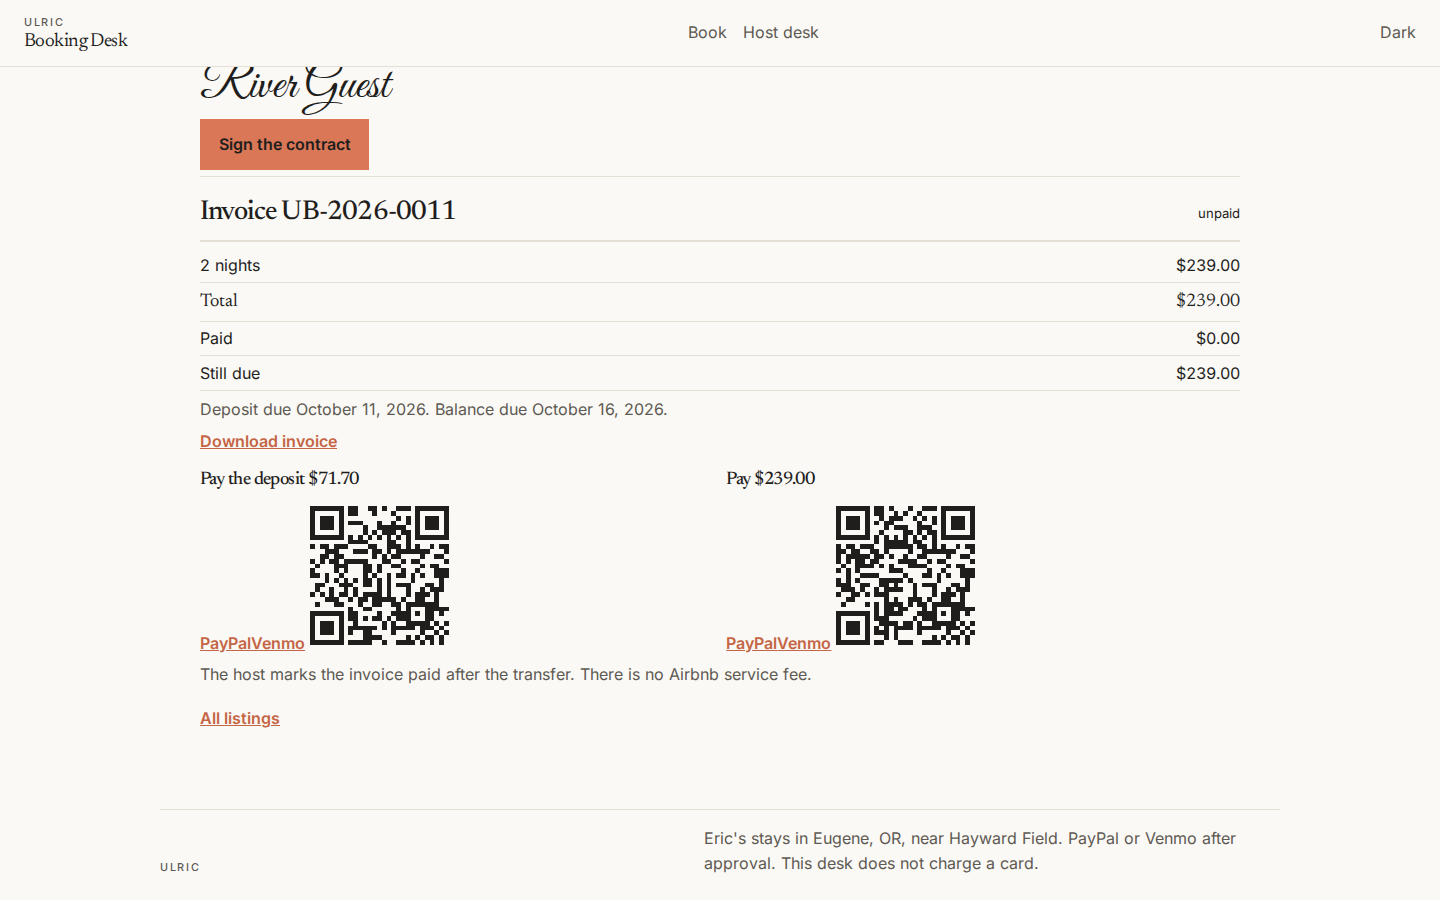
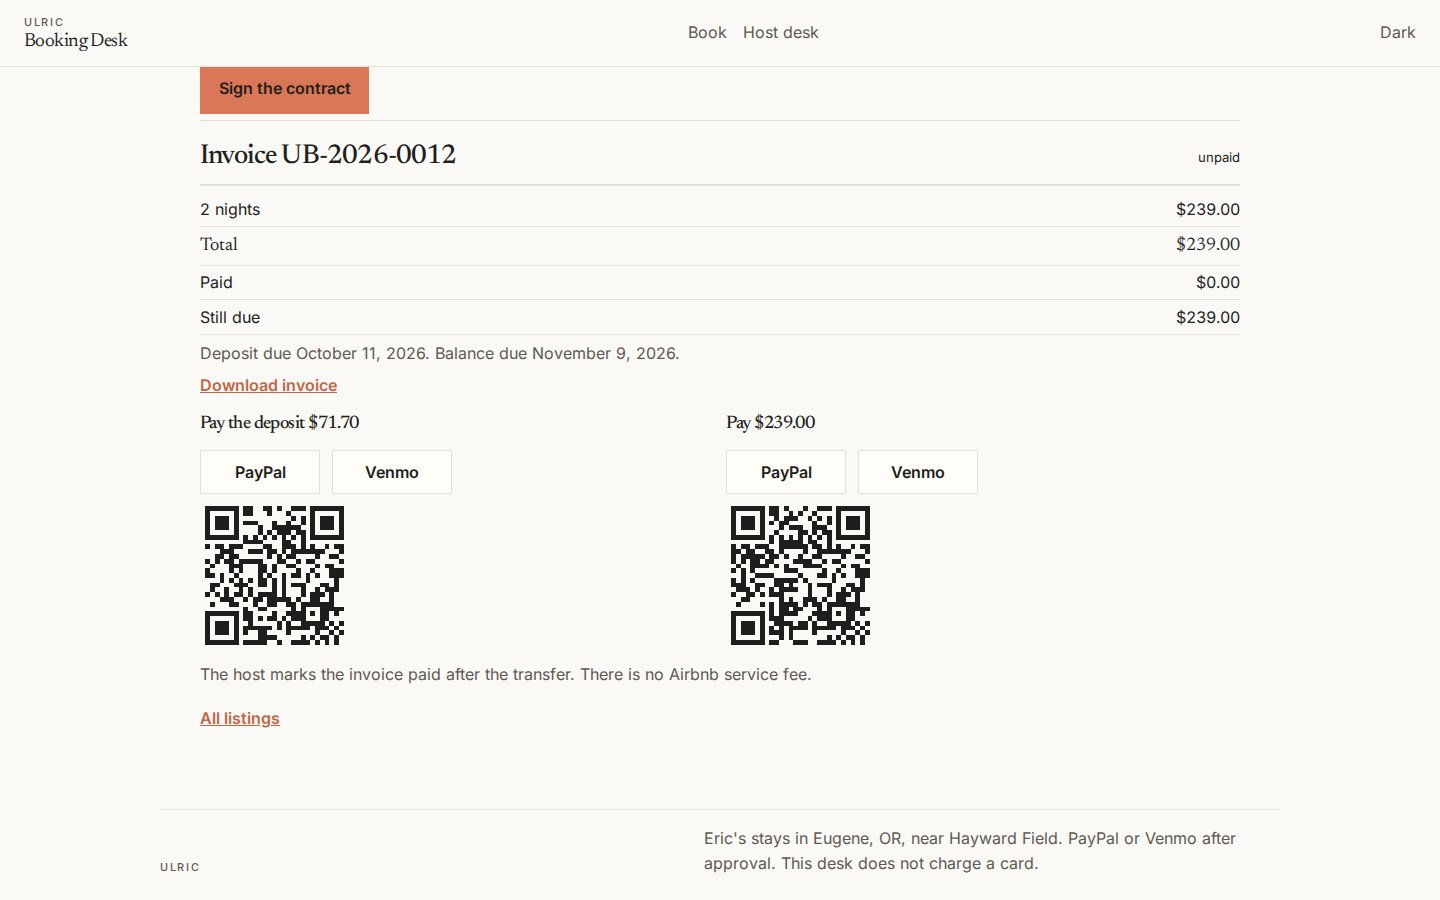
Space guest pay buttons and drop orphaned contract files.
PayPal and Venmo sit apart as two buttons, and the request confirmation no longer leaves a space before the period. A startup with sample bookings off deletes contract PDFs that no booking still references.

diff --git a/web/src/app/pages/guest.html b/web/src/app/pages/guest.html
@@ -139,12 +139,14 @@
             @if (invoice.payPalDepositUrl || invoice.venmoDepositUrl) {
               <article>
                 <h3>Pay the deposit {{ money(invoice.depositRemaining) }}</h3>
-                @if (invoice.payPalDepositUrl) {
-                  <a class="text-link" [href]="invoice.payPalDepositUrl" target="_blank" rel="noreferrer">PayPal</a>
-                }
-                @if (invoice.venmoDepositUrl) {
-                  <a class="text-link" [href]="invoice.venmoDepositUrl" target="_blank" rel="noreferrer">Venmo</a>
-                }
+                <div class="pay-links">
+                  @if (invoice.payPalDepositUrl) {
+                    <a class="pay-button" [href]="invoice.payPalDepositUrl" target="_blank" rel="noreferrer">PayPal</a>
+                  }
+                  @if (invoice.venmoDepositUrl) {
+                    <a class="pay-button" [href]="invoice.venmoDepositUrl" target="_blank" rel="noreferrer">Venmo</a>
+                  }
+                </div>
                 @if (invoice.payPalDepositUrl) {
                   <app-qr [value]="invoice.payPalDepositUrl" label="PayPal deposit QR code" />
                 }
@@ -152,12 +154,14 @@
             }
             <article>
               <h3>Pay {{ money(invoice.amountDue) }}</h3>
-              @if (invoice.payPalUrl) {
-                <a class="text-link" [href]="invoice.payPalUrl" target="_blank" rel="noreferrer">PayPal</a>
-              }
-              @if (invoice.venmoUrl) {
-                <a class="text-link" [href]="invoice.venmoUrl" target="_blank" rel="noreferrer">Venmo</a>
-              }
+              <div class="pay-links">
+                @if (invoice.payPalUrl) {
+                  <a class="pay-button" [href]="invoice.payPalUrl" target="_blank" rel="noreferrer">PayPal</a>
+                }
+                @if (invoice.venmoUrl) {
+                  <a class="pay-button" [href]="invoice.venmoUrl" target="_blank" rel="noreferrer">Venmo</a>
+                }
+              </div>
               @if (invoice.payPalUrl) {
                 <app-qr [value]="invoice.payPalUrl" label="PayPal QR code" />
               }

diff --git a/web/src/styles.css b/web/src/styles.css
@@ -356,6 +356,21 @@ textarea { resize: vertical; }
 .pad { height: 160px; }
 .signature-preview { height: auto; background: #fff; }
 .pay-grid { display: grid; grid-template-columns: 1fr 1fr; gap: 0.8rem; margin-top: 0.8rem; }
+.pay-links { display: flex; flex-wrap: wrap; gap: 0.75rem; margin: 0.7rem 0 0.4rem; }
+a.pay-button {
+  display: inline-flex;
+  align-items: center;
+  justify-content: center;
+  min-width: 7.5rem;
+  min-height: 2.5rem;
+  padding: 0.55rem 1rem;
+  border: 1px solid var(--line);
+  background: var(--raised);
+  color: var(--ink);
+  text-decoration: none;
+  font-weight: 600;
+}
+a.pay-button:hover { color: var(--terracotta-deep); }
 .pay-grid.compact { grid-template-columns: 160px 160px; }
 .qr { width: 148px; height: 148px; }
 .plain, .rules { padding-left: 1.1rem; }

diff --git a/web/src/app/pages/book.html b/web/src/app/pages/book.html
@@ -122,7 +122,7 @@
   @if (confirmation(); as stay) {
     <section class="panel confirm">
       <h2>Request sent</h2>
-      <p>{{ stay.guestName }}, {{ prettyDate(stay.checkIn) }} to {{ prettyDate(stay.checkOut) }} is requested. Those nights are held until {{ listing.hostName }} approves or declines@if (stay.holdUntil) {, or until {{ prettyWhen(stay.holdUntil) }} }.</p>
+      <p>{{ stay.guestName }}, {{ prettyDate(stay.checkIn) }} to {{ prettyDate(stay.checkOut) }} is requested. Those nights are held until {{ listing.hostName }} approves or declines@if (stay.holdUntil) {, or until {{ prettyWhen(stay.holdUntil) }}}.</p>
       <a class="text-link" [routerLink]="stay.guestPath">Open the guest page</a>
     </section>
   }

diff --git a/api/tests/Ulric.BookingDesk.Tests/OrphanContractTests.cs b/api/tests/Ulric.BookingDesk.Tests/OrphanContractTests.cs
@@ -1,0 +1,153 @@
+using System.Net.Http.Json;
+using System.Text.Json;
+using Microsoft.AspNetCore.Hosting;
+using Microsoft.AspNetCore.Mvc.Testing;
+using Microsoft.Extensions.Configuration;
+
+namespace Ulric.BookingDesk.Tests;
+
+[Collection("desk-host")]
+public class OrphanContractTests
+{
+    [Fact]
+    public async Task Sample_off_startup_deletes_contract_files_no_booking_references()
+    {
+        var directory = Path.Combine(Path.GetTempPath(), "ulric-orphan-" + Guid.NewGuid().ToString("N"));
+        Directory.CreateDirectory(directory);
+        var contracts = Path.Combine(directory, "contracts");
+        try
+        {
+            Guid keptId;
+            await using (var seeded = new PinnedDeskFactory(directory, seedSamples: true))
+            {
+                var client = seeded.CreateClient();
+                var checkIn = DateOnly.FromDateTime(DateTime.UtcNow).AddDays(240);
+                var created = await Post(client, "/api/bookings", new
+                {
+                    checkIn,
+                    checkOut = checkIn.AddDays(2),
+                    guests = 1,
+                    guestName = "Kept Guest",
+                    guestEmail = "kept-guest@example.com",
+                    guestPhone = "503-555-0191",
+                    notes = "Keep this file.",
+                    propertySlug = "cottage"
+                });
+                keptId = created.GetProperty("id").GetGuid();
+                var approved = await Post(client, $"/api/bookings/{keptId}/approve", new { });
+                Assert.Equal("Approved", approved.GetProperty("status").GetString());
+            }
+
+            var keptFile = Path.Combine(contracts, $"{keptId:N}.pdf");
+            Assert.True(File.Exists(keptFile));
+            var sampleFiles = Directory.GetFiles(contracts, "*.pdf")
+                .Select(Path.GetFileName)
+                .Where(name => !string.Equals(name, Path.GetFileName(keptFile), StringComparison.OrdinalIgnoreCase))
+                .ToArray();
+            Assert.NotEmpty(sampleFiles);
+
+            var orphan = Path.Combine(contracts, "orphan-left-behind.pdf");
+            await File.WriteAllBytesAsync(orphan, "%PDF-orphan"u8.ToArray());
+
+            await using (var quiet = new PinnedDeskFactory(directory, seedSamples: false))
+            {
+                var client = quiet.CreateClient();
+                var bookings = await client.GetFromJsonAsync<JsonElement>("/api/bookings");
+                Assert.Equal(1, bookings.GetArrayLength());
+                Assert.Equal("Kept Guest", bookings.EnumerateArray().Single().GetProperty("guestName").GetString());
+            }
+
+            var left = Directory.GetFiles(contracts, "*.pdf").Select(Path.GetFileName).ToArray();
+            Assert.Equal(Path.GetFileName(keptFile), Assert.Single(left));
+            Assert.False(File.Exists(orphan));
+        }
+        finally
+        {
+            try
+            {
+                if (Directory.Exists(directory))
+                {
+                    Directory.Delete(directory, true);
+                }
+            }
+            catch (IOException)
+            {
+            }
+        }
+    }
+
+    private static async Task<JsonElement> Post(HttpClient client, string url, object body)
+    {
+        var response = await client.PostAsJsonAsync(url, body);
+        var text = await response.Content.ReadAsStringAsync();
+        Assert.True(response.IsSuccessStatusCode, text);
+        return JsonDocument.Parse(text).RootElement.Clone();
+    }
+
+    private sealed class PinnedDeskFactory : WebApplicationFactory<Program>
+    {
+        private readonly string _directory;
+        private readonly bool _seedSamples;
+
+        public PinnedDeskFactory(string directory, bool seedSamples)
+        {
+            _directory = directory;
+            _seedSamples = seedSamples;
+            Apply();
+        }
+
+        protected override void ConfigureWebHost(IWebHostBuilder builder)
+        {
+            Apply();
+            builder.UseEnvironment("Testing");
+            builder.ConfigureAppConfiguration((_, config) =>
+            {
+                config.AddInMemoryCollection(new Dictionary<string, string?>
+                {
+                    ["Database:Provider"] = "Sqlite",
+                    ["ConnectionStrings:Default"] = $"Data Source={Path.Combine(_directory, "test.db")}",
+                    ["Storage:Root"] = _directory,
+                    ["Desk:RemindersEnabled"] = "false",
+                    ["Desk:TimeZone"] = "UTC",
+                    ["Desk:RequestExpiryHours"] = "48",
+                    ["Desk:SeedSampleBookings"] = _seedSamples ? "true" : "false",
+                    ["Payments:PayPalHandle"] = "hayward-desk",
+                    ["Payments:VenmoHandle"] = "hayward-desk",
+                    ["Host:Phone"] = "",
+                    ["Host:Email"] = ""
+                });
+            });
+        }
+
+        private void Apply()
+        {
+            Environment.SetEnvironmentVariable("Database__Provider", "Sqlite");
+            Environment.SetEnvironmentVariable("ConnectionStrings__Default", $"Data Source={Path.Combine(_directory, "test.db")}");
+            Environment.SetEnvironmentVariable("Storage__Root", _directory);
+            Environment.SetEnvironmentVariable("Desk__RemindersEnabled", "false");
+            Environment.SetEnvironmentVariable("Desk__TimeZone", "UTC");
+            Environment.SetEnvironmentVariable("Desk__RequestExpiryHours", "48");
+            Environment.SetEnvironmentVariable("Desk__SeedSampleBookings", _seedSamples ? "true" : "false");
+            Environment.SetEnvironmentVariable("Payments__PayPalHandle", "hayward-desk");
+            Environment.SetEnvironmentVariable("Payments__VenmoHandle", "hayward-desk");
+            Environment.SetEnvironmentVariable("Host__Phone", "");
+            Environment.SetEnvironmentVariable("Host__Email", "");
+        }
+
+        protected override void Dispose(bool disposing)
+        {
+            Environment.SetEnvironmentVariable("Database__Provider", null);
+            Environment.SetEnvironmentVariable("ConnectionStrings__Default", null);
+            Environment.SetEnvironmentVariable("Storage__Root", null);
+            Environment.SetEnvironmentVariable("Desk__RemindersEnabled", null);
+            Environment.SetEnvironmentVariable("Desk__TimeZone", null);
+            Environment.SetEnvironmentVariable("Desk__RequestExpiryHours", null);
+            Environment.SetEnvironmentVariable("Desk__SeedSampleBookings", null);
+            Environment.SetEnvironmentVariable("Payments__PayPalHandle", null);
+            Environment.SetEnvironmentVariable("Payments__VenmoHandle", null);
+            Environment.SetEnvironmentVariable("Host__Phone", null);
+            Environment.SetEnvironmentVariable("Host__Email", null);
+            base.Dispose(disposing);
+        }
+    }
+}

diff --git a/api/src/Ulric.BookingDesk.Api/Data/Seeder.cs b/api/src/Ulric.BookingDesk.Api/Data/Seeder.cs
@@ -30,6 +30,7 @@ public static class Seeder
         DeskOptions desk,
         PaymentOptions payments,
         DeskHostOptions host,
+        string storageRoot,
         CancellationToken cancellationToken)
     {
         var config = new HostConfig(
@@ -44,6 +45,7 @@ public static class Seeder
             if (!desk.SeedSampleBookings)
             {
                 await DeleteSampleBookingsAsync(db, cancellationToken);
+                RemoveUnreferencedContractFiles(db, storageRoot);
             }
             else if (!await db.Bookings.AnyAsync(cancellationToken))
             {
@@ -75,6 +77,10 @@ public static class Seeder
         if (desk.SeedSampleBookings)
         {
             await SeedSampleStaysAsync(workflow, db, clock, cancellationToken);
+        }
+        else
+        {
+            RemoveUnreferencedContractFiles(db, storageRoot);
         }
     }
 
@@ -133,6 +139,35 @@ public static class Seeder
         await db.Reminders.Where(reminder => ids.Contains(reminder.BookingId)).ExecuteDeleteAsync(cancellationToken);
         await db.Contracts.Where(contract => ids.Contains(contract.BookingId)).ExecuteDeleteAsync(cancellationToken);
         await db.Bookings.Where(booking => ids.Contains(booking.Id)).ExecuteDeleteAsync(cancellationToken);
+    }
+
+    private static void RemoveUnreferencedContractFiles(DeskDb db, string storageRoot)
+    {
+        if (string.IsNullOrWhiteSpace(storageRoot))
+        {
+            return;
+        }
+
+        var directory = Path.Combine(storageRoot, "contracts");
+        if (!Directory.Exists(directory))
+        {
+            return;
+        }
+
+        var referenced = db.Contracts
+            .Select(contract => contract.PdfPath)
+            .ToList()
+            .Where(path => !string.IsNullOrWhiteSpace(path))
+            .Select(path => Path.GetFileName(path!.Replace('\\', '/')))
+            .ToHashSet(StringComparer.OrdinalIgnoreCase);
+
+        foreach (var file in Directory.EnumerateFiles(directory, "*.pdf"))
+        {
+            if (!referenced.Contains(Path.GetFileName(file)))
+            {
+                File.Delete(file);
+            }
+        }
     }
 
     private static List<Property> LoadListings(string contentRoot, HostConfig config)

diff --git a/api/src/Ulric.BookingDesk.Api/Program.cs b/api/src/Ulric.BookingDesk.Api/Program.cs
@@ -71,7 +71,8 @@ using (var scope = app.Services.CreateScope())
     var desk = scope.ServiceProvider.GetRequiredService<Microsoft.Extensions.Options.IOptions<DeskOptions>>().Value;
     var payments = scope.ServiceProvider.GetRequiredService<Microsoft.Extensions.Options.IOptions<PaymentOptions>>().Value;
     var host = scope.ServiceProvider.GetRequiredService<Microsoft.Extensions.Options.IOptions<DeskHostOptions>>().Value;
-    await Seeder.SeedAsync(workflow, db, clock, app.Environment.ContentRootPath, desk, payments, host, CancellationToken.None);
+    var storage = scope.ServiceProvider.GetRequiredService<StoragePaths>();
+    await Seeder.SeedAsync(workflow, db, clock, app.Environment.ContentRootPath, desk, payments, host, storage.Root, CancellationToken.None);
 }
 
 app.UseExceptionHandler(handler =>
